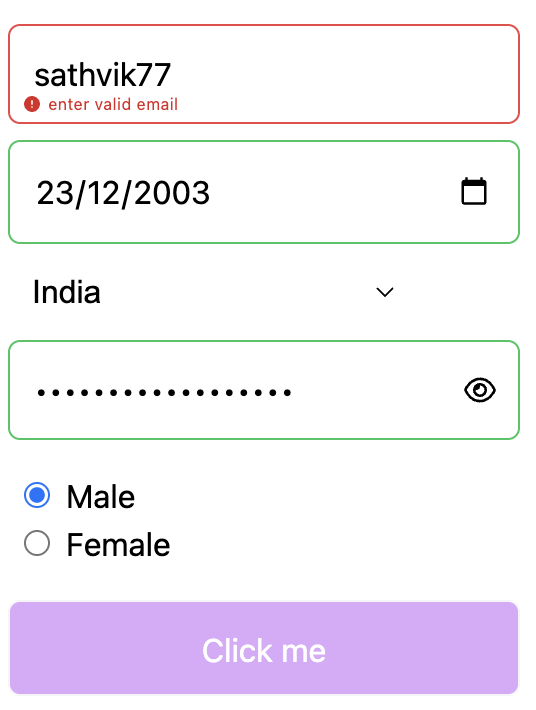
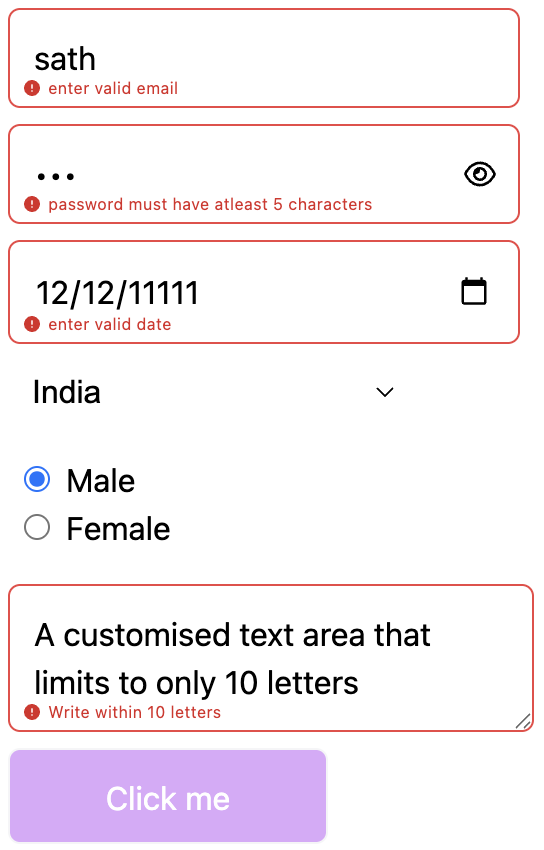
publish 1.1.2 with form styling update

diff --git a/src/context/FormContext.tsx b/src/context/FormContext.tsx
@@ -18,7 +18,7 @@ const invertInput = (input:string|number):string=>{
         return "true";
     }
 }
-export const FormProvider = ({ children,debounceDelay=300,submitFunc }: { children: ReactNode,debounceDelay?:number,submitFunc:Function}) => {
+export const FormProvider = ({ children,debounceDelay=300,submitFunc,className }: { children: ReactNode,debounceDelay?:number,submitFunc:Function, className?:string}) => {
     // debounce delay is an optional
     const [fields, setFields] = useState<(InputFieldProps|DropDownFieldProps)[]>([]);
 
@@ -73,9 +73,11 @@ export const FormProvider = ({ children,debounceDelay=300,submitFunc }: { childr
 
             return updatedFields;
         });
-        if(fieldToUpdate.type!=="checkbox" && fieldToUpdate.type!=="" && fieldToUpdate.type!==undefined)
-        // debounce validator
-        validateData(fieldIndex);
+        console.log(fieldToUpdate)
+        if(fieldToUpdate.type!=="checkbox" && fieldToUpdate.type!=="" && fieldToUpdate.type!==undefined){
+            // debounce validator
+            validateData(fieldIndex);
+        }
         return true;
     };
 
@@ -155,7 +157,7 @@ export const FormProvider = ({ children,debounceDelay=300,submitFunc }: { childr
     };
     return (
         <FormContext.Provider value={{ fields, resetForm, registerField, updateField, hasRegistered, getFormState, handleClick, submitFunc, handleSubmit}}>
-            <form onSubmit={handleSubmit}>
+            <form onSubmit={handleSubmit} className={className || " w-fit "}>
                 {children}
             </form>
         </FormContext.Provider>

diff --git a/src/components/InputBox.tsx b/src/components/InputBox.tsx
@@ -58,7 +58,7 @@ const InputBox: React.FC<InputFieldProps> = ({
   const hasErrorInAnyField = fields.some(field => field.error);
   // Render error message if the field has an error
   const renderError = () => (
-    <p className={`absolute left-0 m-2 flex items-center text-red-600 text-[8px] transition-all ${error ? "opacity-100 bottom-0" : "opacity-0 bottom-2"}`}>
+    <p className={`absolute left-0 m-2 flex items-center text-red-600 text-[8px] transition-all duration-300 ${error ? "opacity-100 bottom-0" : "opacity-0 bottom-1"}`}>
       <FaCircleExclamation className="mx-1" />
       {error}
     </p>

diff --git a/README.md b/README.md
@@ -16,10 +16,18 @@ const App = () => {
     const emailRegex = /^[a-zA-Z0-9._%+-]+@[a-zA-Z0-9.-]+\.[a-zA-Z]{2,}$/;
     return emailRegex.test(data);
   }
+  const feedbackValidity = (data:string)=> data.length <= 10;
+  const passowordValidity = (data:String) => data.length > 4;
+  const dateValidity = (data:string)=>{
+    const regex = /^(\d{4})-(\d{2})-(\d{2})$/;
+    console.log(data.match(regex))
+    return data.match(regex) ? true : false;
+  }
   return (
       <FormProvider submitFunc={(data:string)=>{alert(data)}}>
         <InputBox fieldKey='email' required={true} placeholder='Enter email' value={""} validateFunc={emailValidity} defaultErrorText='enter valid email' type='email' minLength={5}/>
-        <InputBox fieldKey='dob' required={true} placeholder='enter date' value={""} validateFunc={()=>{return true;}} defaultErrorText='enter valid date' type='date'/>
+        <InputBox fieldKey='password' required={true} placeholder='enter passoword' value={""} validateFunc={passowordValidity} defaultErrorText='password must have atleast 5 characters' type='password'/>
+        <InputBox fieldKey='dob' required={true} placeholder='enter date' value={""} validateFunc={dateValidity} defaultErrorText='enter valid date' type='date'/>
         <DropDown 
           fieldKey='country' 
           required={true} 
@@ -31,9 +39,9 @@ const App = () => {
           bgColor="transparent" 
           font="Arial" 
         />
-        <InputBox fieldKey='password' required={true} placeholder='enter passoword' value={""} validateFunc={()=>{return true;}} defaultErrorText='enter valid password' type='password'/>
         <RadioButton fieldKey='gender' required={true} options={["Male","Female"]} value={""}/>
-        <InputBox fieldKey='submit' required={false} placeholder='something' value={"Click me"} validateFunc={()=>{return true;}} defaultErrorText='enter valid dob' type='submit' bgColor="#A020F0" height="3rem" color="white"/>
+        <InputBox fieldKey='feedback' required={true} placeholder='Enter work expeirence' value={""} validateFunc={feedbackValidity} defaultErrorText='Write within 10 letters' type='textarea' cols={26}/>
+        <InputBox fieldKey='submit' required={true} placeholder='something' value={"Click me"} validateFunc={()=>{return true;}} defaultErrorText='enter valid dob' type='submit' width="10rem" bgColor="#A020F0" height="3rem" color="white"/>
       </FormProvider>
   );
 };
@@ -112,7 +120,6 @@ The `InputBox` component is a versatile input field that supports various types:
 ```jsx
 import {InputBox} from 'react-forms-ts';
 import { FormProvider } from 'react-forms-ts';
-import "react-forms-ts/dist/styles.css"
 
 const App = () => {
   const emailValidity = (data:string)=>{
@@ -138,7 +145,6 @@ The `RadioButton` component allows users to select one option from a list of cho
 import {InputBox} from 'react-forms-ts';
 import {RadioButton} from 'react-forms-ts';
 import { FormProvider } from 'react-forms-ts';
-import "react-forms-ts/dist/styles.css"
 
 const App = () => {
   return (
@@ -160,7 +166,6 @@ The `DropDown` component allows users to select an option from a dropdown list.
 ```jsx
 import {DropDown} from 'react-forms-ts';
 import { FormProvider } from 'react-forms-ts';
-import "react-forms-ts/dist/styles.css"
 
 const App = () => {
   return (
@@ -257,7 +262,6 @@ For example, you can add class names, htmls arguments, set placeholder text, def
 ```jsx
 import {InputBox} from 'react-forms-ts';
 import { FormProvider } from 'react-forms-ts';
-import "react-forms-ts/dist/styles.css"
 
 const App = () => {
   const emailValidity = (data:string)=>{
@@ -266,7 +270,7 @@ const App = () => {
   }
   return (
       <FormProvider>
-        <InputBox fieldKey='email' required={true} placeholder='Enter email' value={""} validateFunc={emailValidity} defaultErrorText='enter valid email' type='email' aria-label={"This is input field"} className="my-custom-class"/>
+        <InputBox fieldKey='email' required={true} placeholder='Enter email' value={""} validateFunc={emailValidity} defaultErrorText='enter valid email' type='email' aria-label={"This is input field"}/>
       </FormProvider>
   );
 };
